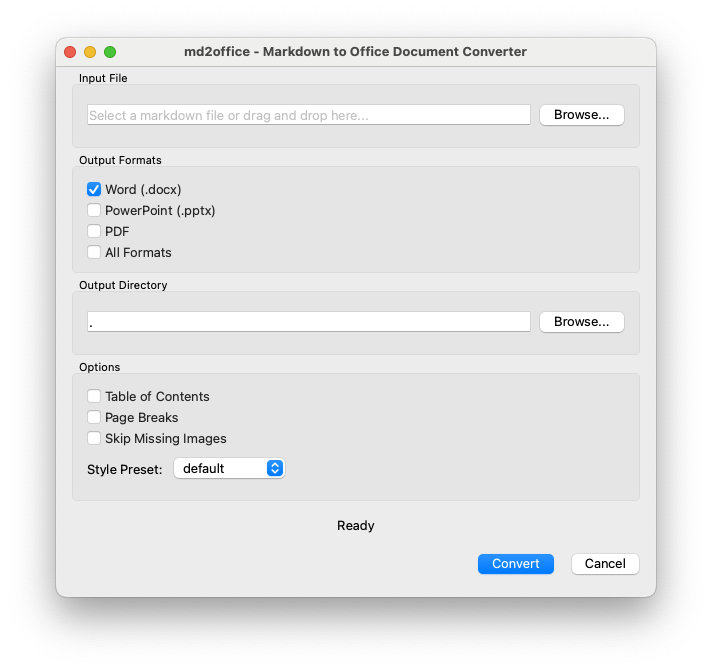
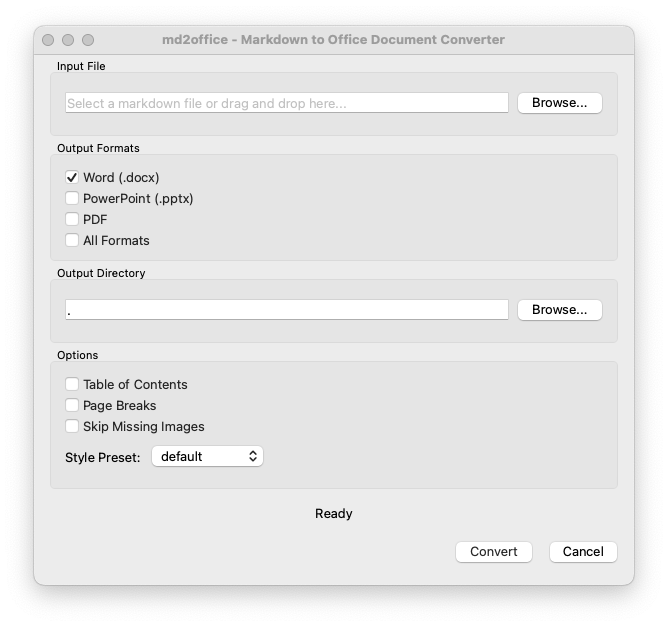
docs: Update screenshots with window-only captures
Updated screenshots to show only the GUI window (not full screen):
- gui-main-window.png: Window-only capture (712x671)
- gui-file-selected.png: Window-only capture (updated dimensions)
- README.md: Updated with latest screenshot references

diff --git a/README.md b/README.md
@@ -20,11 +20,16 @@ A portable CLI tool that converts Microsoft Copilot-generated markdown documents
 - 🔧 **Cross-Platform** - Works on Windows, macOS, and Linux
 - 📦 **Portable** - Self-contained binaries, no installation required
 
+
+
+
+
+
 ## 📸 Screenshots
 
 ![md2office GUI Main Window](docs/assets/screenshots/gui-main-window.png)
 
-![md2office GUI with File Selected](docs/assets/screenshots/gui-file-selected.png)
+![md2office GUI - Screenshot 2](docs/assets/screenshots/gui-file-selected.png)
 
 
 ## 🚀 Quick Start
